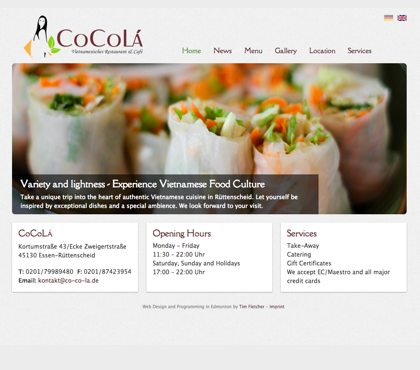
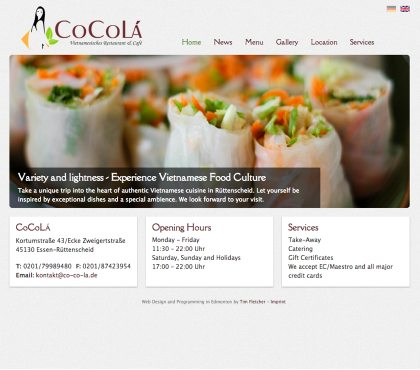
Retinafy portfolio images

diff --git a/javascripts/retina.js b/javascripts/retina.js
@@ -1,0 +1,134 @@
+(function() {
+
+  var root = (typeof exports == 'undefined' ? window : exports);
+
+  var config = {
+    // Ensure Content-Type is an image before trying to load @2x image
+    // https://github.com/imulus/retinajs/pull/45)
+    check_mime_type: true
+  };
+
+
+
+  root.Retina = Retina;
+
+  function Retina() {}
+
+  Retina.configure = function(options) {
+    if (options == null) options = {};
+    for (var prop in options) config[prop] = options[prop];
+  };
+
+  Retina.init = function(context) {
+    if (context == null) context = root;
+
+    var existing_onload = context.onload || new Function;
+
+    context.onload = function() {
+      var images = document.getElementsByTagName("img"), retinaImages = [], i, image;
+      for (i = 0; i < images.length; i++) {
+        image = images[i];
+        retinaImages.push(new RetinaImage(image));
+      }
+      existing_onload();
+    }
+  };
+
+  Retina.isRetina = function(){
+    var mediaQuery = "(-webkit-min-device-pixel-ratio: 1.5),\
+                      (min--moz-device-pixel-ratio: 1.5),\
+                      (-o-min-device-pixel-ratio: 3/2),\
+                      (min-resolution: 1.5dppx)";
+
+    if (root.devicePixelRatio > 1)
+      return true;
+
+    if (root.matchMedia && root.matchMedia(mediaQuery).matches)
+      return true;
+
+    return false;
+  };
+
+
+  root.RetinaImagePath = RetinaImagePath;
+
+  function RetinaImagePath(path) {
+    this.path = path;
+    this.at_2x_path = path.replace(/\.\w+$/, function(match) { return "@2x" + match; });
+  }
+
+  RetinaImagePath.confirmed_paths = [];
+
+  RetinaImagePath.prototype.is_external = function() {
+    return !!(this.path.match(/^https?\:/i) && !this.path.match('//' + document.domain) )
+  }
+
+  RetinaImagePath.prototype.check_2x_variant = function(callback) {
+    var http, that = this;
+    if (this.is_external()) {
+      return callback(false);
+    } else if (this.at_2x_path in RetinaImagePath.confirmed_paths) {
+      return callback(true);
+    } else {
+      http = new XMLHttpRequest;
+      http.open('HEAD', this.at_2x_path);
+      http.onreadystatechange = function() {
+        if (http.readyState != 4) {
+          return callback(false);
+        }
+
+        if (http.status >= 200 && http.status <= 399) {
+          if (config.check_mime_type) {
+            var type = http.getResponseHeader('Content-Type');
+            if (type == null || !type.match(/^image/i)) {
+              return callback(false);
+            }
+          }
+
+          RetinaImagePath.confirmed_paths.push(that.at_2x_path);
+          return callback(true);
+        } else {
+          return callback(false);
+        }
+      }
+      http.send();
+    }
+  }
+
+
+
+  function RetinaImage(el) {
+    this.el = el;
+    this.path = new RetinaImagePath(this.el.getAttribute('src'));
+    var that = this;
+    this.path.check_2x_variant(function(hasVariant) {
+      if (hasVariant) that.swap();
+    });
+  }
+
+  root.RetinaImage = RetinaImage;
+
+  RetinaImage.prototype.swap = function(path) {
+    if (typeof path == 'undefined') path = this.path.at_2x_path;
+
+    var that = this;
+    function load() {
+      if (! that.el.complete) {
+        setTimeout(load, 5);
+      } else {
+        that.el.setAttribute('width', that.el.offsetWidth);
+        that.el.setAttribute('height', that.el.offsetHeight);
+        that.el.setAttribute('src', path);
+      }
+    }
+    load();
+  }
+
+
+
+
+  if (Retina.isRetina()) {
+    Retina.init(root);
+  }
+
+})();

diff --git a/index.html b/index.html
@@ -10,6 +10,7 @@
   <!--[if lt IE 9]>
       <script src="//html5shiv.googlecode.com/svn/trunk/html5.js"></script>
   <![endif]-->
+  <script type="text/javascript" src="javascripts/retina.js"></script>
   <script type="text/javascript" src="//use.typekit.net/ztq8evd.js"></script>
   <script type="text/javascript">try{Typekit.load();}catch(e){}</script>
 </head>
@@ -18,7 +19,7 @@
 <div id="hellobar">
   <p>
     <!-- Looking for a freelance web developer? -->
-    Accepting new projects in February 2013
+    Accepting new projects February 2013
     <script type="text/javascript">
     //<![CDATA[
     <!--
@@ -72,13 +73,13 @@
 
     <article class="clearfix">
       <a href="https://monogr.am">
-        <img src="media/portfolio-1-monogram.jpg" alt="Monogram website" class="image">
+        <img src="media/portfolio-monogram.jpg" alt="Monogram website" class="image">
         <h6 class="title">Monogram - Instagram portfolios</h6>
       </a>
     </article>
     <article class="clearfix">
       <a href="http://onelistapp.herokuapp.com">
-        <img src="media/portfolio-2-onelist.jpg" alt="Onelist app website" class="image">
+        <img src="media/portfolio-onelist.jpg" alt="Onelist app website" class="image">
         <h6 class="title">Onelist - Mobile todo app</h6>
       </a>
     </article>
